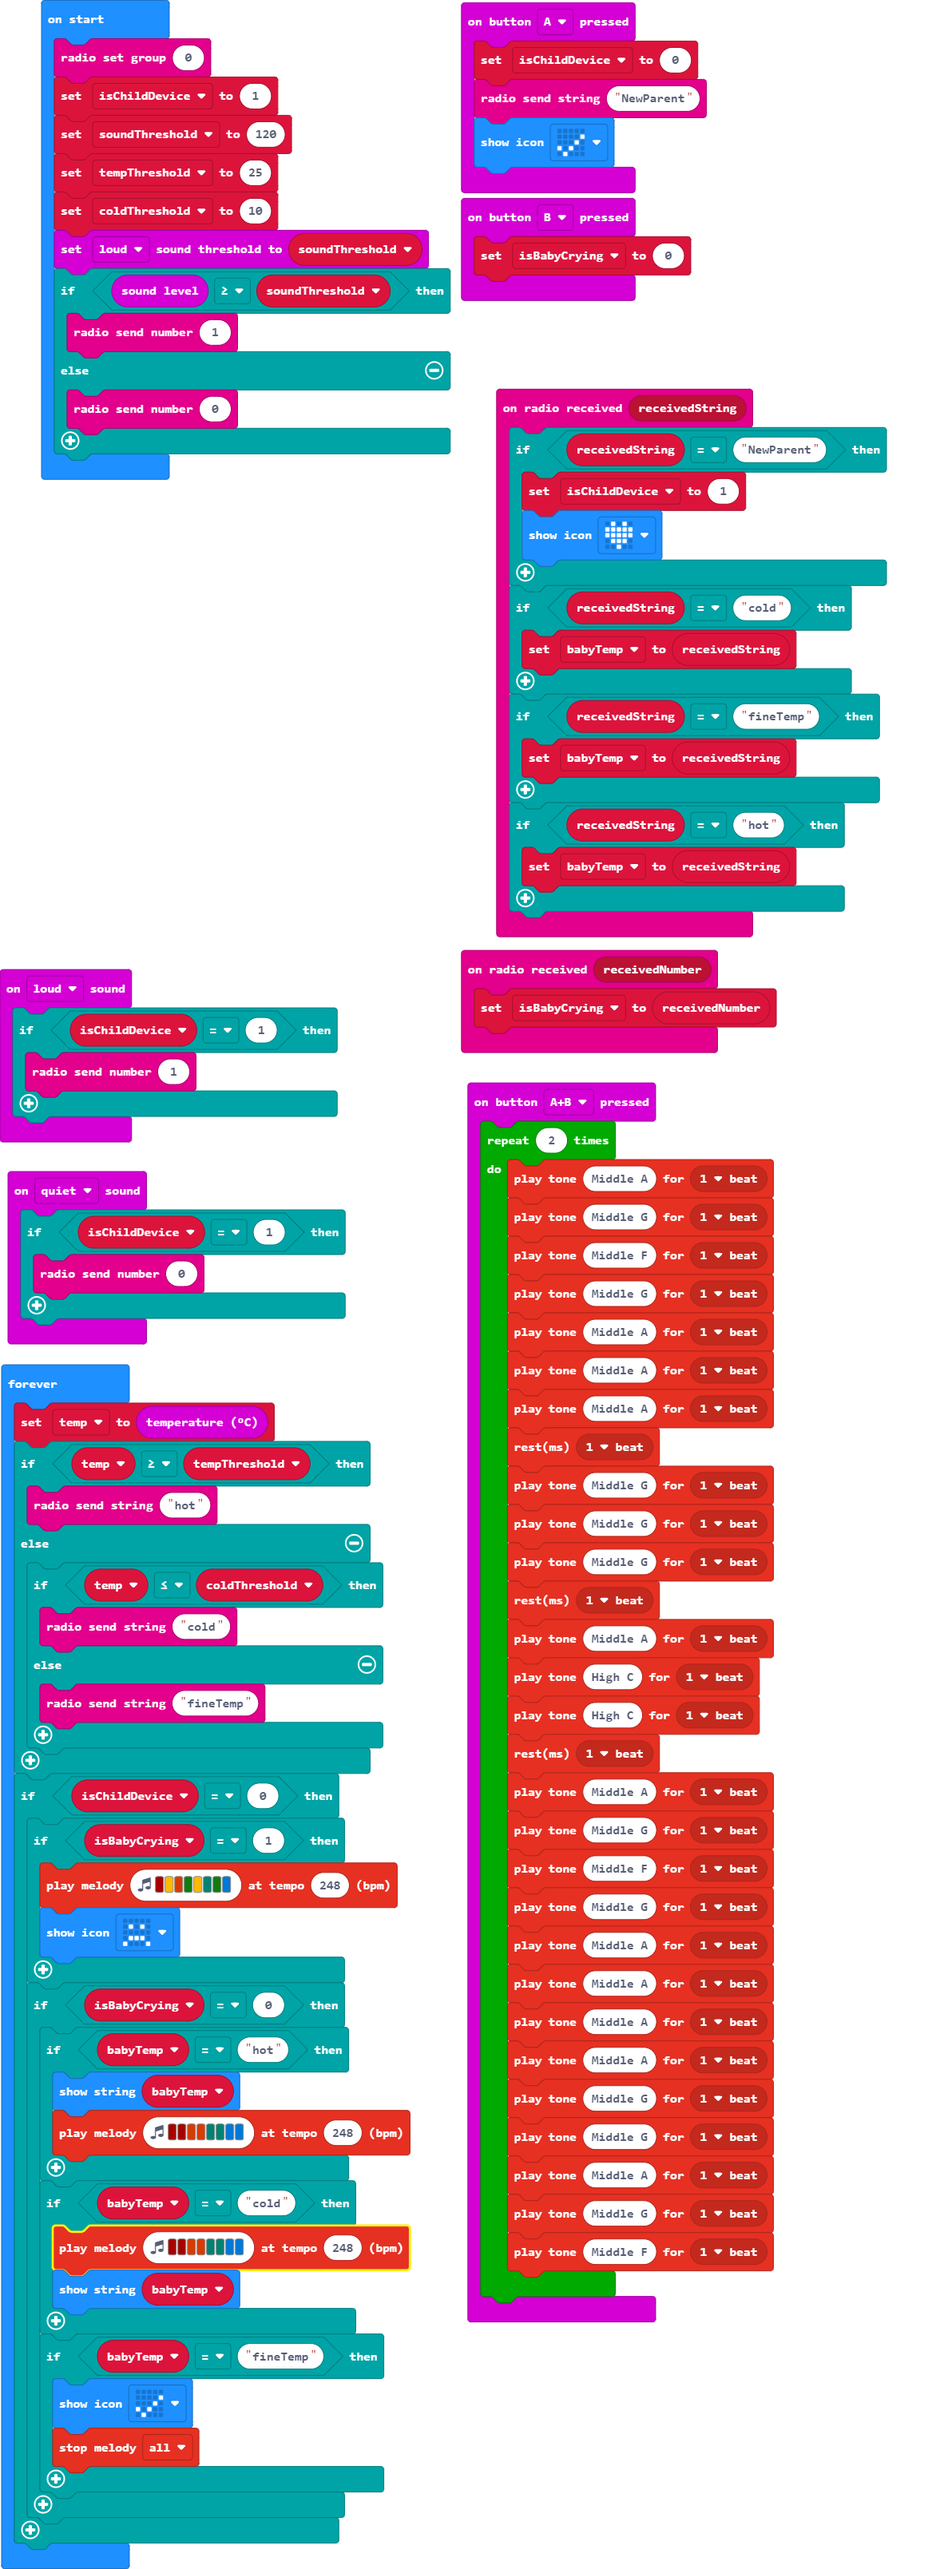
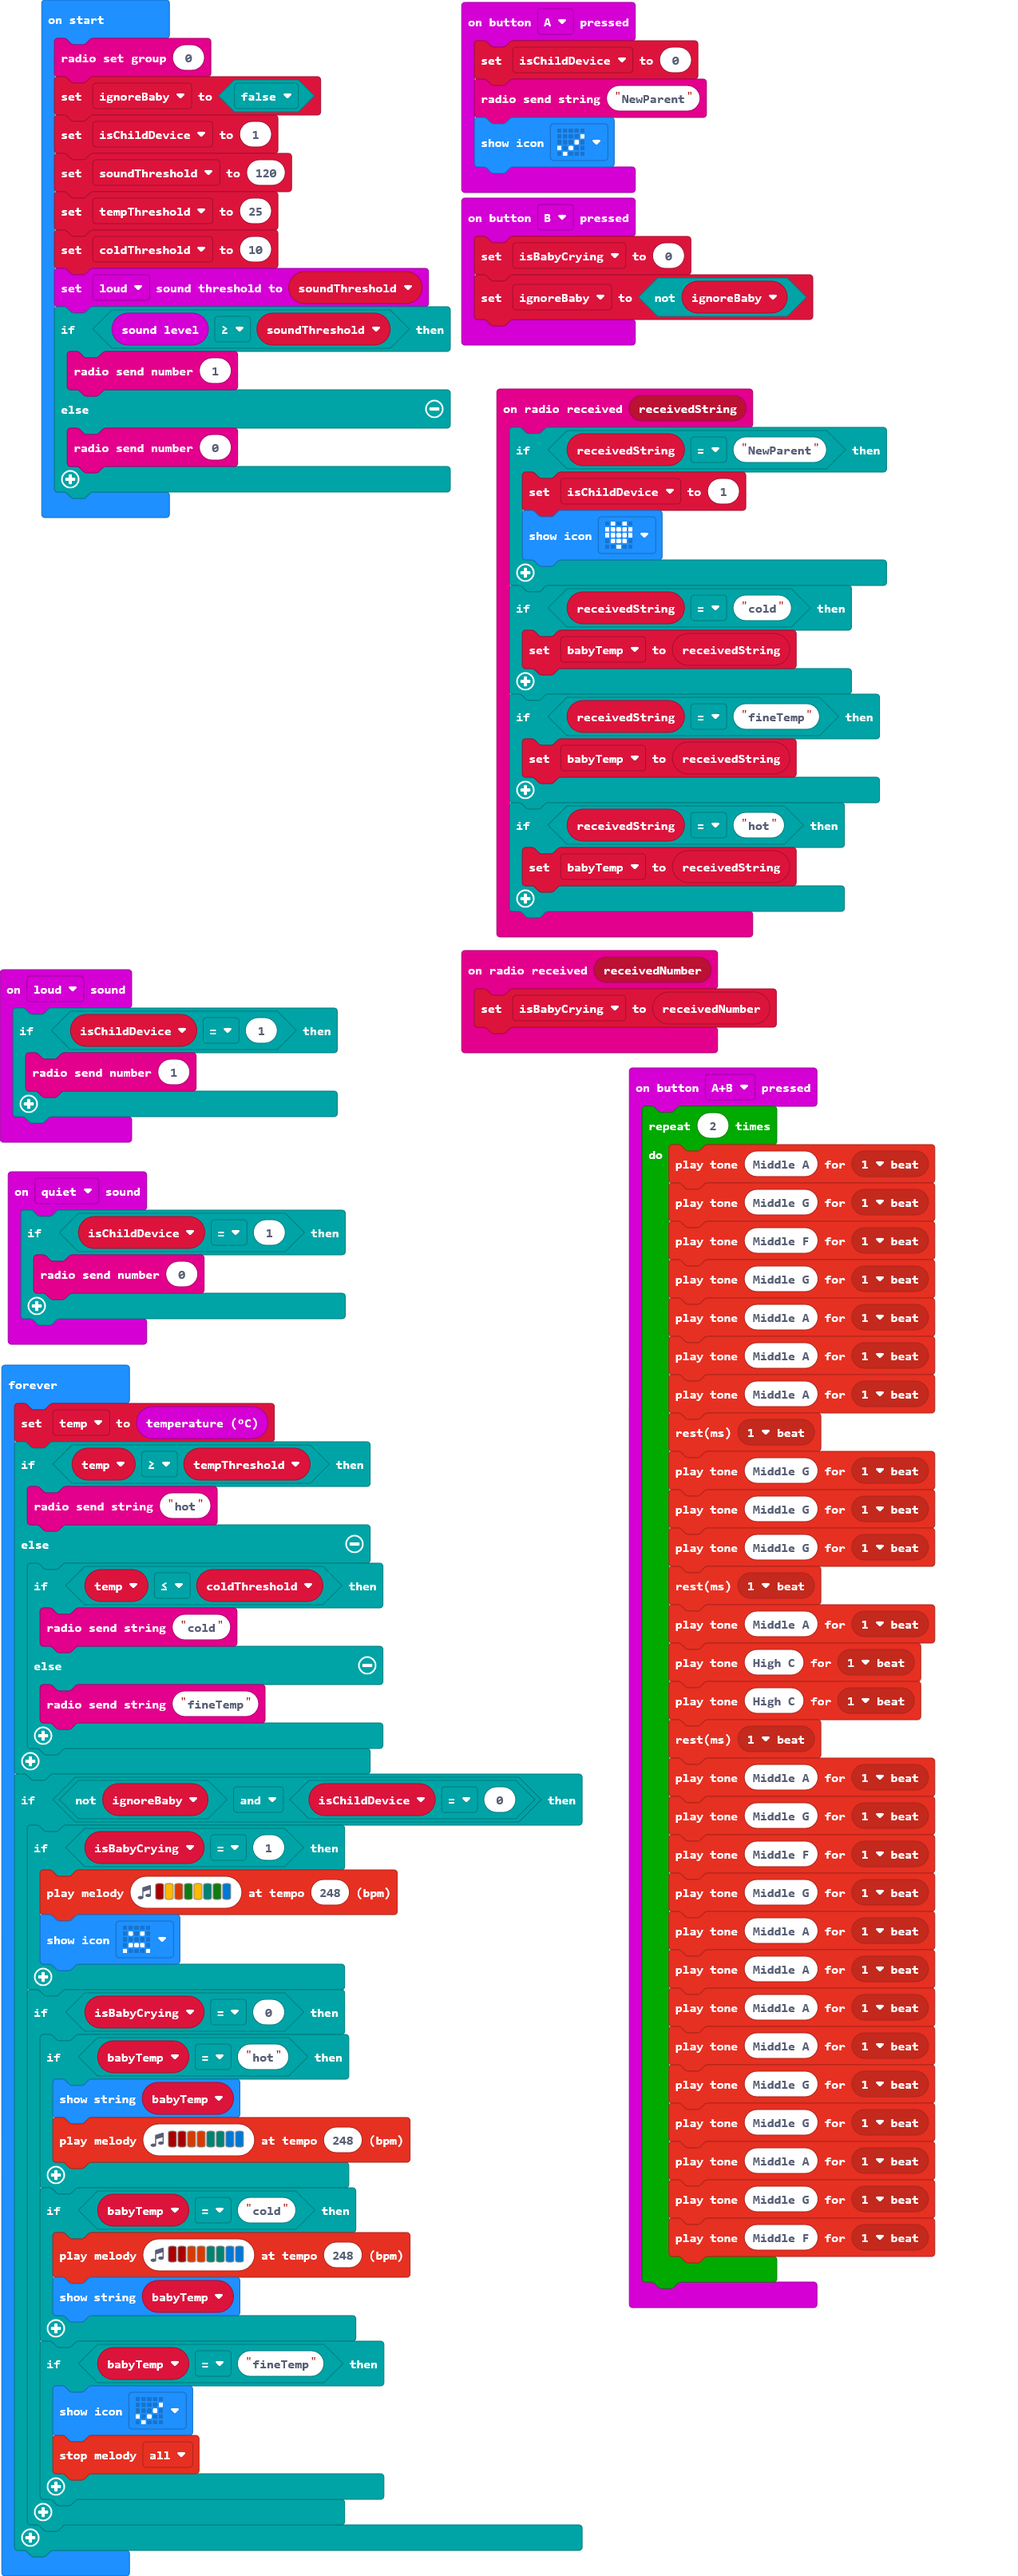
Button B stops all alerts (testing purposes)

diff --git a/main.ts b/main.ts
@@ -66,6 +66,7 @@ radio.onReceivedString(function (receivedString) {
 })
 input.onButtonPressed(Button.B, function () {
     isBabyCrying = 0
+    ignoreBaby = !(ignoreBaby)
 })
 input.onSound(DetectedSound.Quiet, function () {
     if (isChildDevice == 1) {
@@ -76,7 +77,9 @@ let temp = 0
 let babyTemp = ""
 let isBabyCrying = 0
 let isChildDevice = 0
+let ignoreBaby = false
 radio.setGroup(0)
+ignoreBaby = false
 isChildDevice = 1
 let soundThreshold = 120
 let tempThreshold = 25
@@ -98,7 +101,7 @@ basic.forever(function () {
             radio.sendString("fineTemp")
         }
     }
-    if (isChildDevice == 0) {
+    if (!(ignoreBaby) && isChildDevice == 0) {
         if (isBabyCrying == 1) {
             music.playMelody("C5 A B G A F G E ", 248)
             basic.showIcon(IconNames.Sad)
